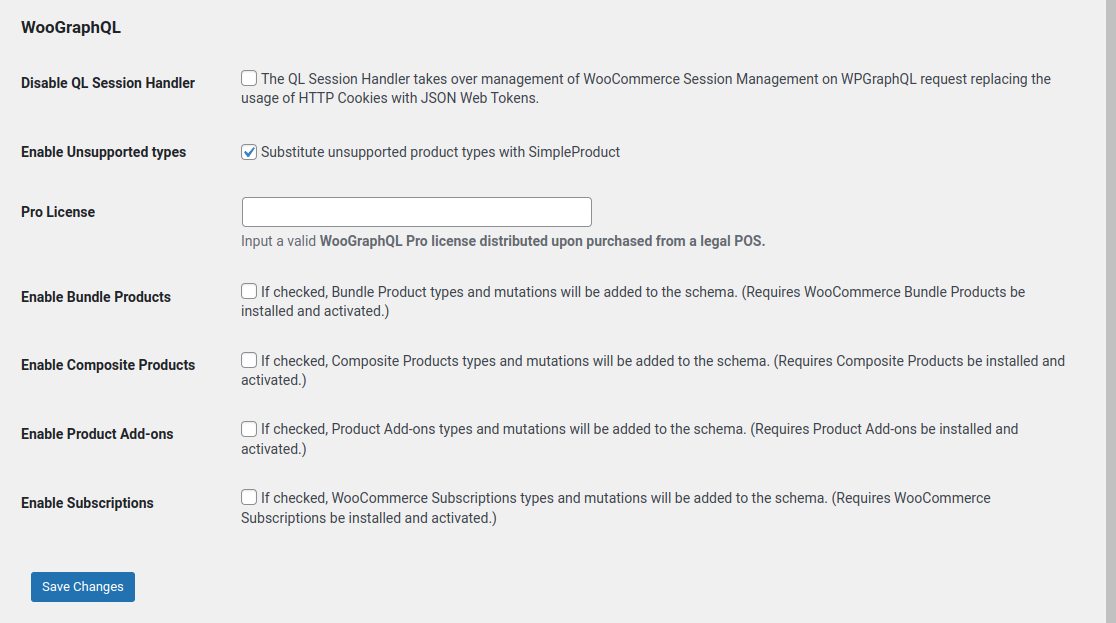
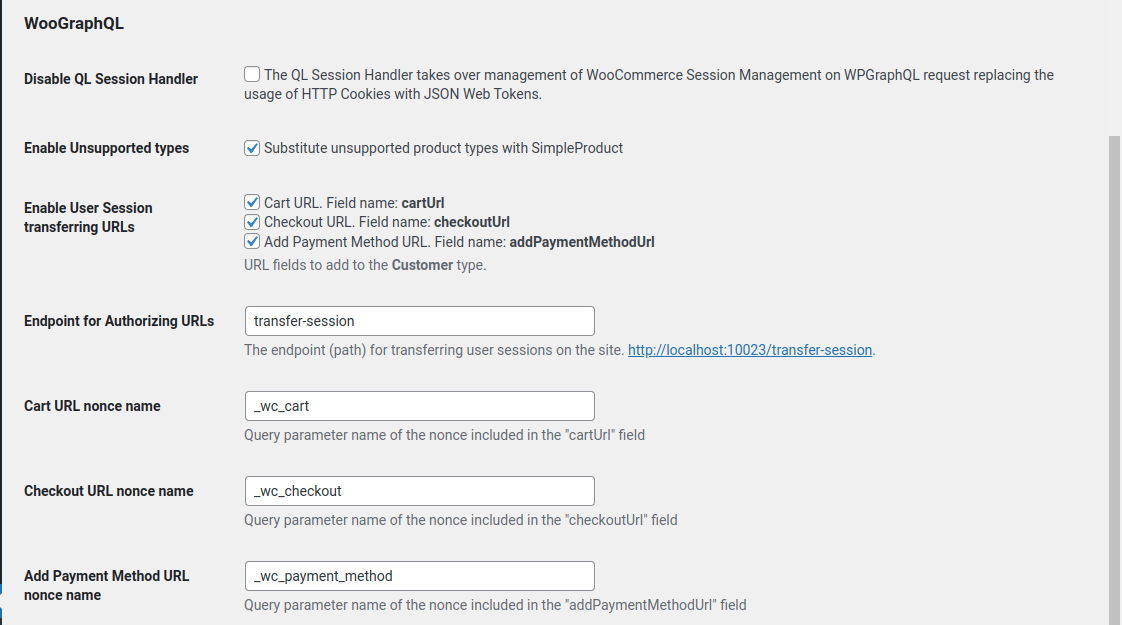
devops: Harmonizing WordPress doc written and Settings doc updated.

diff --git a/docs/harmonizing-with-wordpress.md b/docs/harmonizing-with-wordpress.md
@@ -1,0 +1,81 @@
+---
+title: "Harmonizing with WordPress"
+description: "Learn how to create a secure checkout button and understand the security behind the URL validation."
+keywords: "WooGraphQL, WooCommerce, checkout functionality, secure checkout, session transferring URLs, nonce generation, session meta, URL validation, Client Session ID, UpdateSession mutation, GraphQL, cart page, WordPress, frontend security"
+author: "Geoff Taylor"
+---
+
+# Harmonizing with WordPress
+
+In our [previous guide](using-cart-data.md), we created a cart page for our WooCommerce store. Now, we are going to add a "Checkout" button to this page and discuss how to ensure the security of the process.
+
+Our checkout button's `href` attribute will be a nonced URL that directs the user to a particular endpoint on the WP backend. The endpoint performs a set of operations such as validating the URL, loading the WooCommerce session, authenticating the registered user, and redirecting to the checkout page. If the URL validation fails, the user will be redirected to the WP homepage.
+
+## Enabling Dedicated Router and Nonce Generation
+
+Before starting with the checkout button creation, we need to activate the dedicated router and nonce generation feature introduced in WooGraphQL v0.13.0. To do this, enable the "User Session transferring URLs" option in your WooGraphQL settings. Also, make sure to check the "Checkout URL" checkbox under this option.
+
+![Enable User Session Transferring URLs Setting Screenshot](images/enable-user-session-transferring-urls-setting-screenshot.png)
+
+Although it's not mandatory, it's recommended to set the "Endpoint for Authorizing URLs" and "Checkout URL nonce name" settings with secure values for increased security.
+
+![Authorizing URLs endpoint and Checkout URL Nonce name settings screenshot](images/auth-endpoint-and-checkout-nonce-name-settings-screenshot.png)
+
+## Creating the Checkout Button
+
+To create a checkout button in our CartPage component, we can use the `checkoutUrl` field from the `customer` query. This URL is dynamically generated by our GraphQL server and is now ready for use. Let's update our CartPage component:
+
+```jsx
+// ...existing code...
+<a className="button" href={customer.checkoutUrl}>Checkout</a>
+// ...existing code...
+```
+
+## Understanding URL Validation and Security
+
+Although our checkout button is now functional, it's important to note that the default URL validation process can be improved in terms of security. In the next part of this guide, we will discuss the security measures and how to enhance them.
+
+### Improving Security with Client Session ID
+
+The first step is to create a "Client Session ID" in our app and pass it to the WooCommerce session using the `updateSession` mutation. This mutation allows us to set session metadata directly in the WooCommerce session data object. The `client_session_id` meta is used by WooGraphQL to create the nonce.
+
+If WooGraphQL cannot find this meta, it generates one on the server, making the URL potentially usable on any machine. This is why it's important to avoid an arbitrary string as the session ID. Instead, we should use a value tied to the user's machine, like their IP or User Agent. Afterward, this value should be one-way hashed for increased security.
+
+Furthermore, we also need to set the `client_session_id_expiration` as a string value representing the expiration time in seconds. For example, to set an expiration time of one hour from now, we could use: `Math.floor(new Date().getTime() / 1000) + 3600`.
+
+We can achieve all of this by using the `updateSession` mutation as follows:
+
+```graphql
+mutation($input: UpdateSessionInput!) {
+    updateSession(input: $input) {
+        customer {
+            checkoutUrl
+        }
+    }
+}
+```
+
+With the input fields populated with secure values:
+
+```js
+const input = {
+    sessionData: [
+        {
+            key: 'client_session_id',
+            value: 'secure_hashed_value', // Replace this with your secure hashed value.
+        },
+        {
+            key: 'client_session_id_expiration',
+            value: `${Math.floor(new Date().getTime() / 1000) + 3600}`,
+        },
+    ]
+}
+```
+
+When the `client_session
+
+_id` or `client_session_id_expiration` values become invalid or expired, WooGraphQL generates new values with an expiration time of one hour. To avoid this, we recommend you to periodically update these values from the client side and retrieve a new `checkoutUrl` each time.
+
+## Conclusion
+
+With this guide, you should now be able to add a secure checkout button to your WooCommerce cart page using WooGraphQL. Keep in mind that even though we've improved security by setting a client-side session ID and expiration, these measures should be part of a broader security strategy. Always ensure to follow best practices to keep your application and user data safe.

diff --git a/docs/settings.md b/docs/settings.md
@@ -25,6 +25,21 @@ The default WooCommerce User Session Handler is responsible for capturing cart a
 
 The settings is simple to understand and likely to be enabled if your using a WC extension that uses a product type that isn't support by WooGraphQL out-of-box. When enabled it will substitute the missing type with the SimpleProduct type. This way you can still you the product type and possibly pull what extra data you need from the `Product`'s `metaData` field.
 
+![Authorizing URL Settings Screenshot](images/authorizing-url-settings.png)
+
+## Enable User Session transferring URLs
+
+This settings when enabled activated the WooCommerce Session-backed nonce generator and transfer session endpoint for passing a user's session from a client to the WordPress installation, the primary use of these nonces are to create authorizing URLs that enable the user to travel to the backend as if it were a part of the front-end application. This setting is disabled if the QL Session Handler is disabled as it required for nonce generation to work. The next four settings are all about customizing the names of different parts of the authorizing URL..
+
+### Endpoint for Authorizing URLs
+
+The endpoint (path) for transferring user sessions on the site. Defaults to `transfer-session`.
+
+### Cart URL nonce name, Checkout URL nonce name, and Add Payment Method URL nonce name
+
+The name of the nonce param for each respective URLs. They have to be unique and cannot be identical.
+
+Uses these settings alone is very insecure. It's highly recommended that specific measures be taken on the client to further secure the WP backend and end-user's data.
 ## WooGraphQL Pro Settings
 
 These settings allow you to enable or disable the GraphQL schema types, queries, and mutations for various WooCommerce extensions supported by WooGraphQL Pro. This is useful if you have one of the supported extensions installed and activated but don't need it exposed to the GraphQL API, keeping the schema lightweight.
